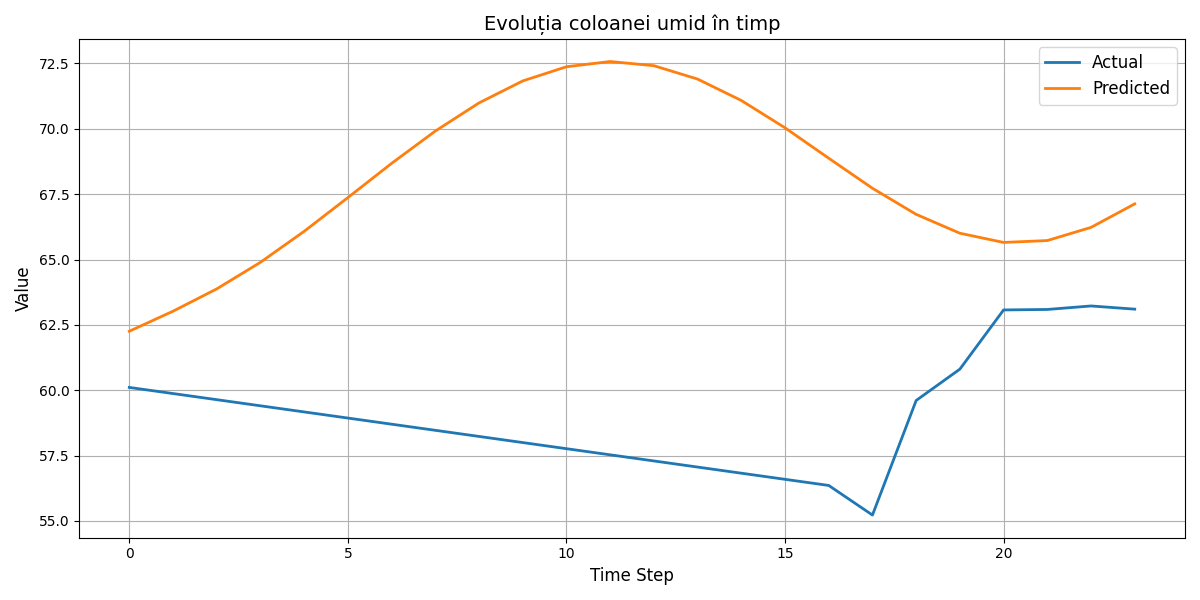
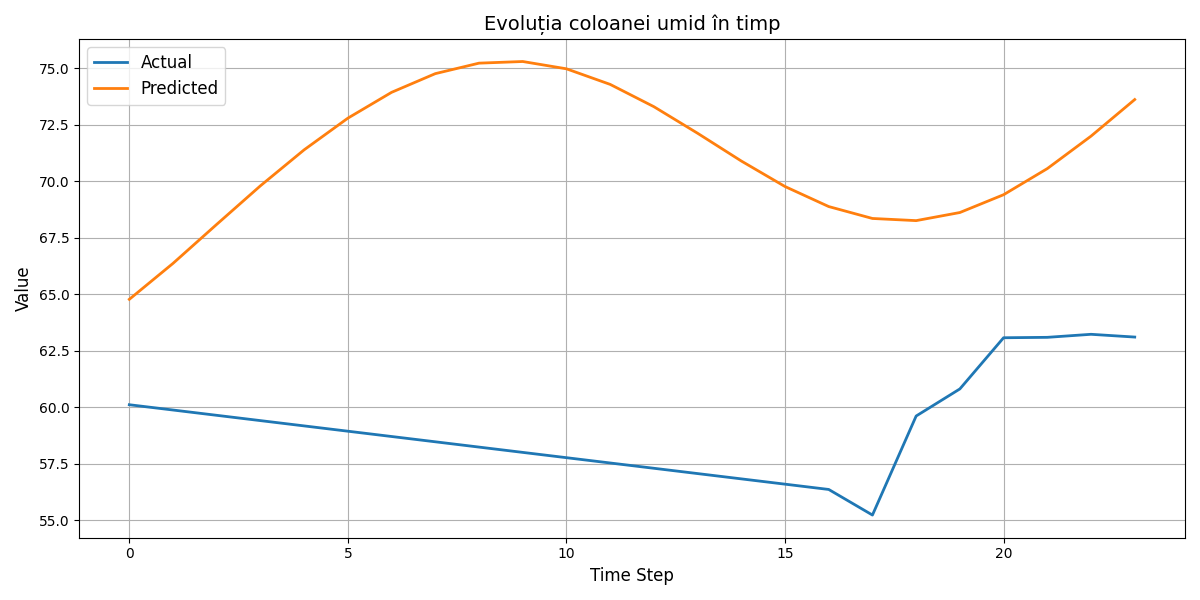
unitati seq2seq

diff --git a/SensorML/seq2seq.py b/SensorML/seq2seq.py
@@ -38,13 +38,13 @@ def function_Seq2Seq(df, column):
 
     # Encoder
     encoder_inputs = tf.keras.layers.Input(shape=(input_sequence_length, input_dim))
-    encoder_lstm = tf.keras.layers.LSTM(100, return_state=True)
+    encoder_lstm = tf.keras.layers.LSTM(50, return_state=True)
     encoder_outputs, state_h, state_c = encoder_lstm(encoder_inputs)
     encoder_states = [state_h, state_c]
 
     # Decoder
     decoder_inputs = tf.keras.layers.Input(shape=(output_sequence_length, input_dim))  # Ajustează această linie
-    decoder_lstm = tf.keras.layers.LSTM(100, return_sequences=True, return_state=True)
+    decoder_lstm = tf.keras.layers.LSTM(50, return_sequences=True, return_state=True)
     decoder_outputs, _, _ = decoder_lstm(decoder_inputs, initial_state=encoder_states)
     decoder_dense = tf.keras.layers.Dense(output_dim, activation='linear')
     decoder_outputs = decoder_dense(decoder_outputs)

diff --git a/SensorML/disease.py b/SensorML/disease.py
@@ -3,16 +3,15 @@ import matplotlib.pyplot as plt
 import os
 
 def generate_bar_charts(file_path, output_directory='static/images'):
-    # Verifică dacă directorul de ieșire există și, dacă nu, îl creează
     if not os.path.exists(output_directory):
         os.makedirs(output_directory)
 
-    # Încarcă datele din fișierul CSV
+    # Se încarcă datele din fișierul CSV
     data = pd.read_csv(file_path)
 
     diseases = data['Disease']
     temp1 = data['Air Temperature [°C]']
-    temp2 = data['Unnamed: 2']  # Ajustează denumirea coloanei corespunzător
+    temp2 = data['Unnamed: 2']
     hum1 = data['AirHumidity [%rh]']
     hum2 = data['Unnamed: 4']
 
